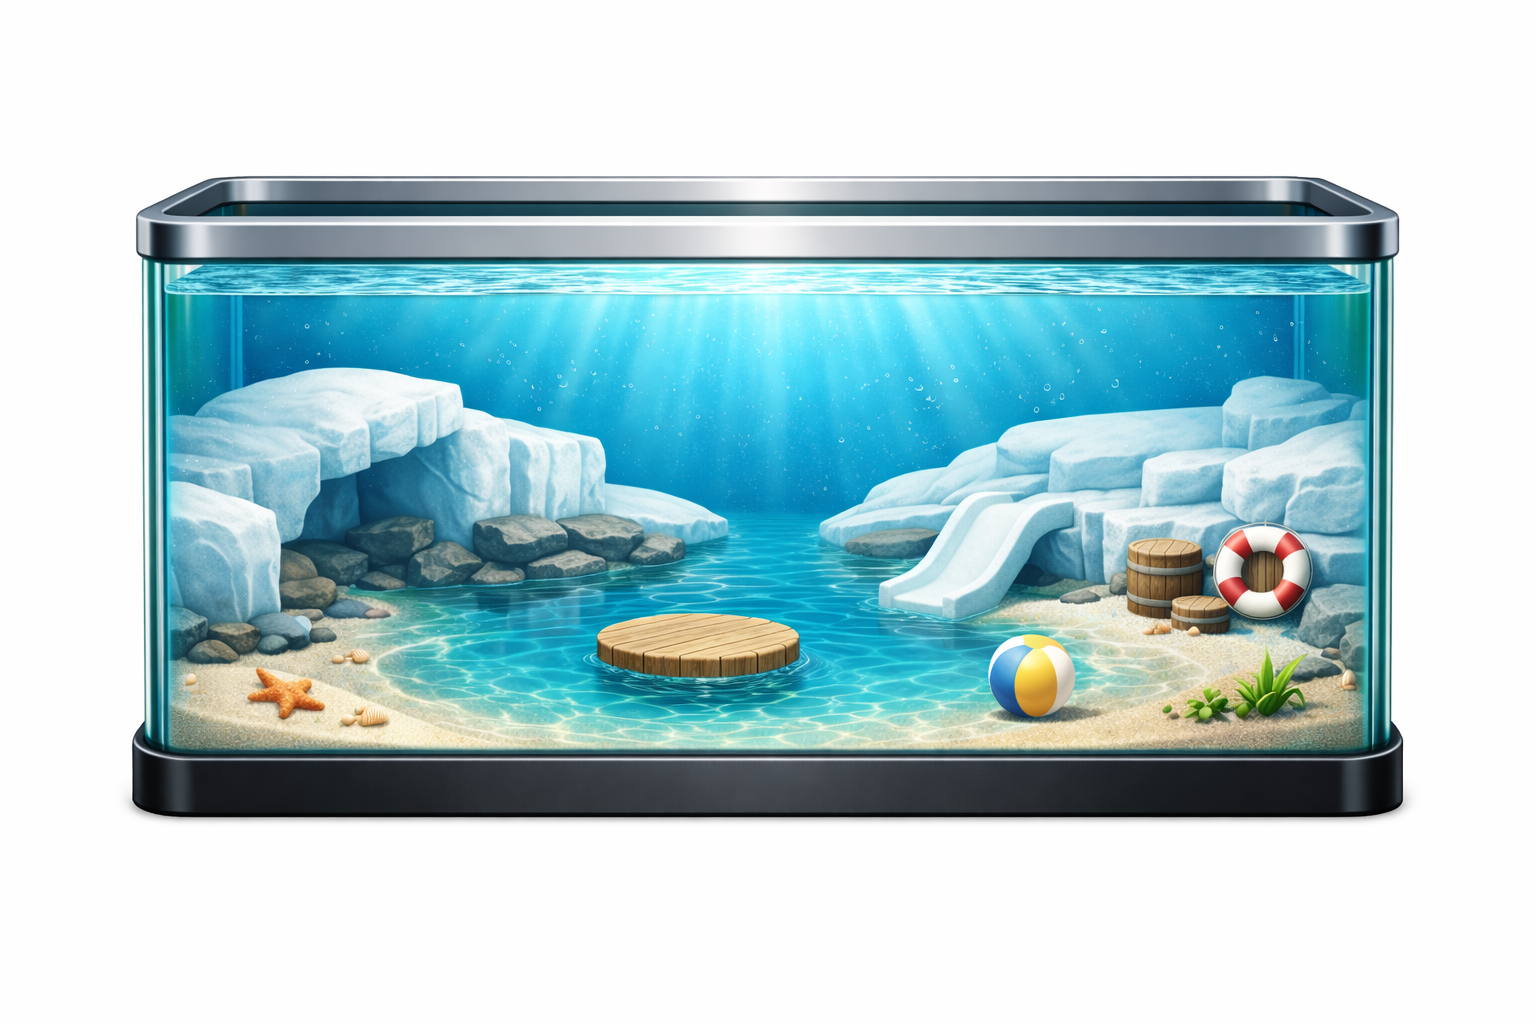
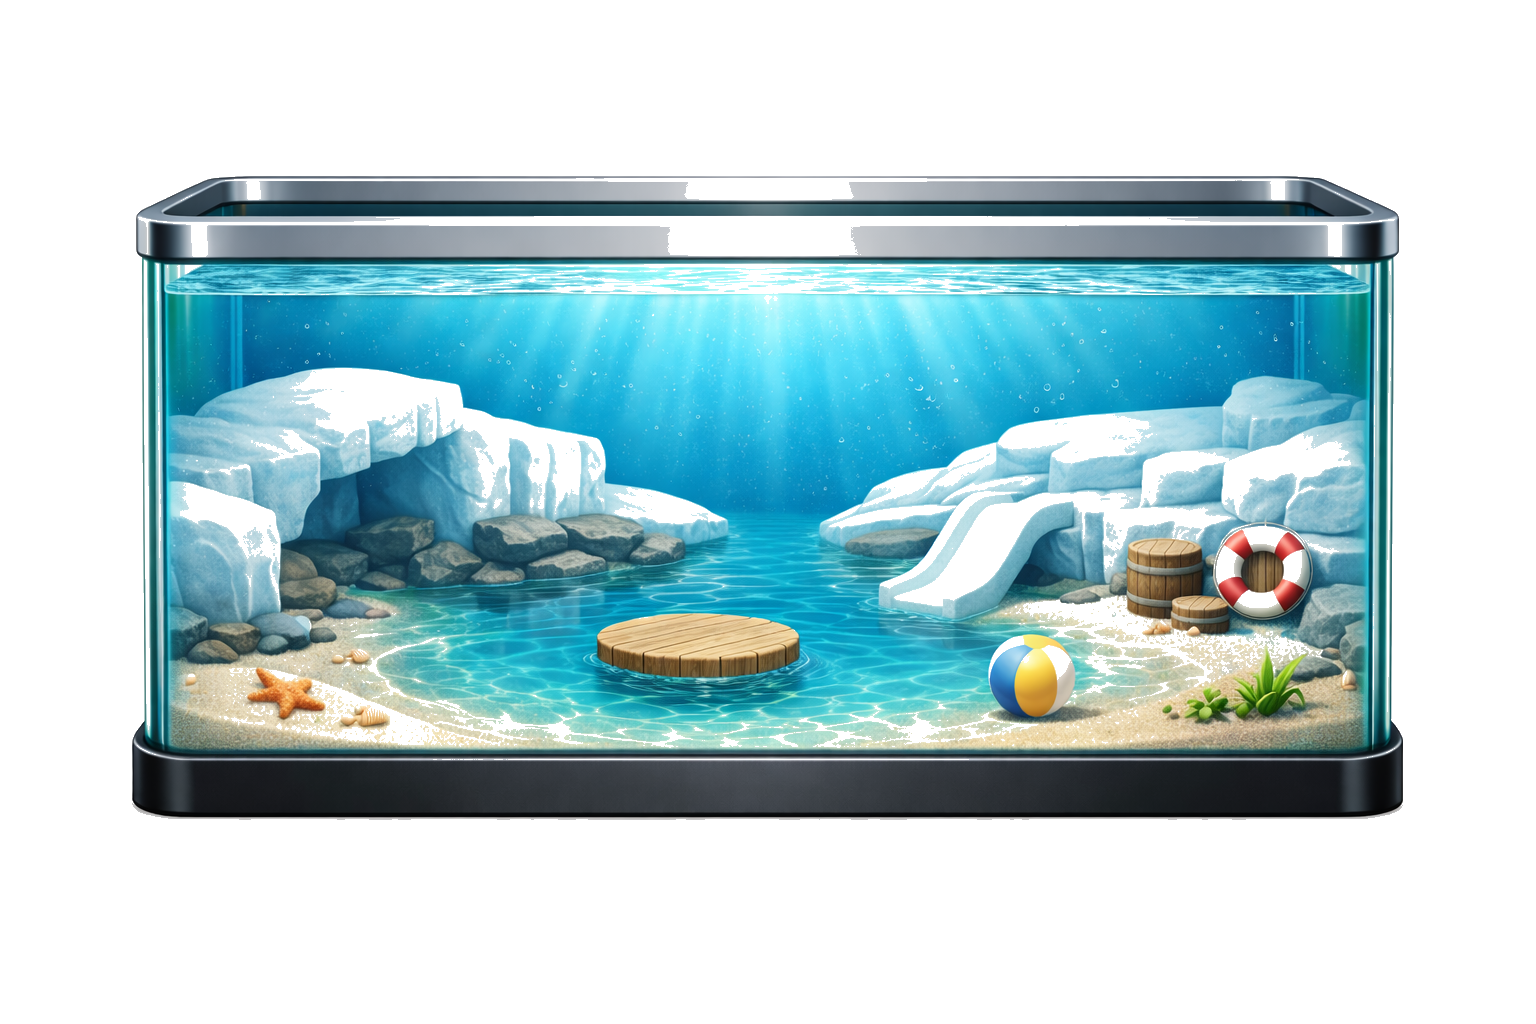
Fix tank background and confine gameplay inside tank
- Remove white background from tank.png (threshold > 200)
- Update spawn functions to use scaled tank bounds
- Entities now spawn at 85% of tank width (inside right edge)
- Cleanup uses scaled bounds for despawning

diff --git a/ar-game.js b/ar-game.js
@@ -7,12 +7,12 @@ const ctx = canvas.getContext('2d');
 
 // ============ FISHTANK CONFIGURATION ============
 const FISHTANK = {
-  width: 600,           // Logical width in game units (2x larger)
-  height: 480,          // Logical height (2x larger)
-  depth: 200,           // Z-depth for 3D effect
-  borderWidth: 6,
-  borderColor: 'rgba(100, 200, 255, 0.5)',
-  borderGlow: 'rgba(100, 200, 255, 0.3)',
+  width: 600,
+  height: 480,
+  depth: 200,
+  borderWidth: 0,
+  borderColor: 'transparent',
+  borderGlow: 'transparent',
   backgroundColor: 'rgba(0, 40, 80, 0.12)'
 };
 
@@ -26,21 +26,21 @@ const LANES = {
 const LANE_CONFIG = {
   [LANES.BACK]: {
     z: 160,           // Far from camera
-    scale: 0.6,       // Smaller
-    alpha: 0.6,       // More transparent
-    yOffset: -20      // Slightly higher on screen
+    scale: 0.5,       // Smaller (was 0.6)
+    alpha: 0.5,       // More transparent (was 0.6)
+    yOffset: -30      // Higher on screen (was -20)
   },
   [LANES.MIDDLE]: {
     z: 100,           // Middle depth
-    scale: 0.85,
+    scale: 0.8,       // (was 0.85)
     alpha: 0.85,
     yOffset: 0
   },
   [LANES.FRONT]: {
     z: 40,            // Close to camera
-    scale: 1.0,       // Full size
+    scale: 1.1,       // Larger (was 1.0)
     alpha: 1.0,       // Fully opaque
-    yOffset: 20       // Slightly lower on screen
+    yOffset: 35       // Lower on screen (was 20)
   }
 };
 
@@ -195,6 +195,42 @@ function init() {
 
   // Hide pause button initially
   pauseBtn.style.display = 'none';
+
+  // Keyboard controls for desktop testing
+  window.addEventListener('keydown', handleKeyboard);
+}
+
+// Keyboard controls for desktop testing (no gyroscope)
+function handleKeyboard(e) {
+  if (!gameRunning || isPaused || isFrozen) return;
+
+  const tankHalfH = (FISHTANK.height / 2 - 40) * tankScale;
+  const moveStep = 20;
+
+  switch(e.key) {
+    case 'ArrowUp':
+      // Move seal UP on screen
+      targetY = Math.max(tankCenterY - tankHalfH, targetY - moveStep);
+      e.preventDefault();
+      break;
+    case 'ArrowDown':
+      // Move seal DOWN on screen
+      targetY = Math.min(tankCenterY + tankHalfH, targetY + moveStep);
+      e.preventDefault();
+      break;
+    case 'w':
+    case 'W':
+      // Move to BACK lane (further from camera, smaller)
+      if (sealLane > LANES.BACK) sealLane--;
+      e.preventDefault();
+      break;
+    case 's':
+    case 'S':
+      // Move to FRONT lane (closer to camera, larger)
+      if (sealLane < LANES.FRONT) sealLane++;
+      e.preventDefault();
+      break;
+  }
 }
 
 function resizeCanvas() {
@@ -431,11 +467,11 @@ function findNewSurface() {
 // ============ SPAWNING ============
 
 function spawnBackFish() {
-  const tankRight = tankCenterX + FISHTANK.width / 2;
-  const tankTop = tankCenterY - FISHTANK.height / 2;
+  const halfW = FISHTANK.width / 2 * tankScale;
+  const halfH = FISHTANK.height / 2 * tankScale;
   backFish.push({
-    x: tankRight + 50,
-    y: tankTop + 20 + Math.random() * (FISHTANK.height - 40),
+    x: tankCenterX + halfW * 0.85,  // Inside right edge
+    y: tankCenterY - halfH + 20 + Math.random() * (FISHTANK.height * tankScale - 40),
     z: FISHTANK.depth - 20 + Math.random() * 30,  // Back of tank
     speed: 0.3 + Math.random() * 0.4
   });
@@ -448,11 +484,11 @@ function spawnCollectible() {
   const lane = Math.floor(Math.random() * 3);
   const laneConfig = LANE_CONFIG[lane];
 
-  const tankRight = tankCenterX + FISHTANK.width / 2;
-  const tankTop = tankCenterY - FISHTANK.height / 2;
+  const halfW = FISHTANK.width / 2 * tankScale;
+  const halfH = FISHTANK.height / 2 * tankScale;
   collectibles.push({
-    x: tankRight + 50,
-    y: tankTop + 30 + Math.random() * (FISHTANK.height - 60) + laneConfig.yOffset,
+    x: tankCenterX + halfW * 0.85,  // Inside right edge
+    y: tankCenterY - halfH + 30 + Math.random() * (FISHTANK.height * tankScale - 60) + laneConfig.yOffset * tankScale,
     z: laneConfig.z,  // Z determined by lane
     lane: lane,       // Store lane for collision detection
     collected: false,
@@ -486,11 +522,11 @@ function spawnPuffer() {
   const lane = Math.floor(Math.random() * 3);
   const laneConfig = LANE_CONFIG[lane];
 
-  const tankRight = tankCenterX + FISHTANK.width / 2;
-  const tankTop = tankCenterY - FISHTANK.height / 2;
+  const halfW = FISHTANK.width / 2 * tankScale;
+  const halfH = FISHTANK.height / 2 * tankScale;
   puffers.push({
-    x: tankRight + 50,
-    y: tankTop + 40 + Math.random() * (FISHTANK.height - 80) + laneConfig.yOffset,
+    x: tankCenterX + halfW * 0.85,  // Inside right edge
+    y: tankCenterY - halfH + 40 + Math.random() * (FISHTANK.height * tankScale - 80) + laneConfig.yOffset * tankScale,
     z: laneConfig.z,  // Z determined by lane
     lane: lane,       // Store lane for collision detection
     hit: false,
@@ -505,12 +541,12 @@ function spawnShark() {
   const lane = Math.floor(Math.random() * 3);
   const laneConfig = LANE_CONFIG[lane];
 
-  const tankRight = tankCenterX + FISHTANK.width / 2;
-  const tankTop = tankCenterY - FISHTANK.height / 2;
+  const halfW = FISHTANK.width / 2 * tankScale;
+  const halfH = FISHTANK.height / 2 * tankScale;
   sharks.push({
-    x: tankRight + 80,
-    y: tankCenterY + laneConfig.yOffset,
-    baseY: tankTop + 50 + Math.random() * (FISHTANK.height - 100) + laneConfig.yOffset,
+    x: tankCenterX + halfW * 0.85,  // Inside right edge
+    y: tankCenterY + laneConfig.yOffset * tankScale,
+    baseY: tankCenterY - halfH + 50 + Math.random() * (FISHTANK.height * tankScale - 100) + laneConfig.yOffset * tankScale,
     z: laneConfig.z,  // Z determined by lane
     lane: lane,       // Store lane for collision detection
     speed: 3 + Math.random() * 1.5,
@@ -526,11 +562,11 @@ function spawnReef() {
   const lane = Math.floor(Math.random() * 3);
   const laneConfig = LANE_CONFIG[lane];
 
-  const tankRight = tankCenterX + FISHTANK.width / 2;
-  const tankTop = tankCenterY - FISHTANK.height / 2;
+  const halfW = FISHTANK.width / 2 * tankScale;
+  const halfH = FISHTANK.height / 2 * tankScale;
   reefs.push({
-    x: tankRight + 50,
-    y: tankTop + 50 + Math.random() * (FISHTANK.height - 100) + laneConfig.yOffset,
+    x: tankCenterX + halfW * 0.85,  // Inside right edge
+    y: tankCenterY - halfH + 50 + Math.random() * (FISHTANK.height * tankScale - 100) + laneConfig.yOffset * tankScale,
     z: laneConfig.z,  // Z determined by lane
     lane: lane,       // Store lane for collision detection
     speed: 1.5,
@@ -545,11 +581,11 @@ function spawnJellyfish() {
   const lane = Math.floor(Math.random() * 3);
   const laneConfig = LANE_CONFIG[lane];
 
-  const tankRight = tankCenterX + FISHTANK.width / 2;
-  const tankTop = tankCenterY - FISHTANK.height / 2;
+  const halfW = FISHTANK.width / 2 * tankScale;
+  const halfH = FISHTANK.height / 2 * tankScale;
   jellyfish.push({
-    x: tankRight + 50,
-    y: tankTop + 30 + Math.random() * (FISHTANK.height - 80) + laneConfig.yOffset,
+    x: tankCenterX + halfW * 0.85,  // Inside right edge
+    y: tankCenterY - halfH + 30 + Math.random() * (FISHTANK.height * tankScale - 80) + laneConfig.yOffset * tankScale,
     z: laneConfig.z,  // Z determined by lane
     lane: lane,       // Store lane for collision detection
     speed: 1.2,
@@ -655,16 +691,14 @@ function drawFishtankBackground() {
   const width = FISHTANK.width * tankScale;
   const height = FISHTANK.height * tankScale;
 
-  // Draw tank.png as semi-transparent background
+  // Draw tank image (now with transparent background)
   if (tankImg.complete && tankImg.naturalWidth > 0) {
-    ctx.globalAlpha = 0.85;  // Slight transparency for see-through effect
     ctx.drawImage(tankImg, left, top, width, height);
-    ctx.globalAlpha = 1.0;
   } else {
-    // Fallback: Semi-transparent blue background
-    ctx.fillStyle = FISHTANK.backgroundColor;
+    // Fallback: blue rectangle
+    ctx.fillStyle = 'rgba(0, 80, 120, 0.6)';
     ctx.beginPath();
-    ctx.roundRect(left, top, width, height, 12 * tankScale);
+    ctx.roundRect(left, top, width, height, 15 * tankScale);
     ctx.fill();
   }
 
@@ -716,32 +750,10 @@ function drawFishtankBorder() {
   ctx.restore();
 }
 
-// Draw horizontal lane divider lines
+// Draw horizontal lane divider lines (disabled - tank image has its own visual)
 function drawLaneLines() {
-  ctx.save();
-  ctx.strokeStyle = 'rgba(255, 255, 255, 0.12)';
-  ctx.lineWidth = 2;
-  ctx.setLineDash([10, 10]);
-
-  const halfW = FISHTANK.width / 2 * tankScale;
-  const left = tankCenterX - halfW + 20;
-  const right = tankCenterX + halfW - 20;
-
-  // Line between back and middle lanes (upper third)
-  const y1 = tankCenterY - 50 * tankScale;
-  ctx.beginPath();
-  ctx.moveTo(left, y1);
-  ctx.lineTo(right, y1);
-  ctx.stroke();
-
-  // Line between middle and front lanes (lower third)
-  const y2 = tankCenterY + 50 * tankScale;
-  ctx.beginPath();
-  ctx.moveTo(left, y2);
-  ctx.lineTo(right, y2);
-  ctx.stroke();
-
-  ctx.restore();
+  // Disabled - the tank image provides its own visual boundaries
+  return;
 }
 
 // Draw current lane indicator below tank
@@ -791,13 +803,23 @@ function drawEntityWithDepth(type, entity) {
   const scale = laneConfig.scale * tankScale;
   const alpha = laneConfig.alpha;
 
-  // Clamp drawing to tank bounds with some margin
-  const tankLeft = tankCenterX - FISHTANK.width / 2 * tankScale - 50;
-  const tankRight = tankCenterX + FISHTANK.width / 2 * tankScale + 50;
-  if (entity.x < tankLeft || entity.x > tankRight) return;
+  // Skip if entity is outside tank bounds
+  const tankLeft = tankCenterX - FISHTANK.width / 2 * tankScale;
+  const tankRight = tankCenterX + FISHTANK.width / 2 * tankScale;
+  if (entity.x < tankLeft - 50 || entity.x > tankRight + 50) return;
 
   ctx.save();
   ctx.globalAlpha = alpha;
+
+  // Apply depth-based filters for clearer lane distinction
+  if (lane === LANES.BACK) {
+    // Back lane: darker, desaturated, blue tint (underwater haze)
+    ctx.filter = 'brightness(0.65) saturate(0.5) sepia(20%) hue-rotate(180deg)';
+  } else if (lane === LANES.FRONT) {
+    // Front lane: brighter, more saturated
+    ctx.filter = 'brightness(1.15) saturate(1.3)';
+  }
+  // Middle lane: no filter
 
   switch (type) {
     case 'backfish':
@@ -1100,7 +1122,8 @@ function updateUI() {
 // ============ CLEANUP ============
 
 function cleanupOffscreen() {
-  const tankLeft = tankCenterX - FISHTANK.width / 2 - 80;
+  // Use scaled tank bounds - remove entities when they exit left edge of tank
+  const tankLeft = tankCenterX - FISHTANK.width / 2 * tankScale - 50;
 
   for (let i = backFish.length - 1; i >= 0; i--) {
     if (backFish[i].x < tankLeft) backFish.splice(i, 1);
@@ -1112,7 +1135,7 @@ function cleanupOffscreen() {
     if (puffers[i].x < tankLeft || puffers[i].hit) puffers.splice(i, 1);
   }
   for (let i = sharks.length - 1; i >= 0; i--) {
-    if (sharks[i].x < tankLeft - 50 || sharks[i].hit) sharks.splice(i, 1);
+    if (sharks[i].x < tankLeft || sharks[i].hit) sharks.splice(i, 1);
   }
   for (let i = reefs.length - 1; i >= 0; i--) {
     if (reefs[i].x < tankLeft) reefs.splice(i, 1);
@@ -1211,6 +1234,14 @@ function gameLoop() {
   // Sort by Z (furthest/largest Z first = painter's algorithm)
   allEntities.sort((a, b) => b.z - a.z);
 
+  // Set clipping region to keep entities inside tank
+  ctx.save();
+  const clipHalfW = FISHTANK.width / 2 * tankScale;
+  const clipHalfH = FISHTANK.height / 2 * tankScale;
+  ctx.beginPath();
+  ctx.roundRect(tankCenterX - clipHalfW, tankCenterY - clipHalfH, FISHTANK.width * tankScale, FISHTANK.height * tankScale, 12 * tankScale);
+  ctx.clip();
+
   // Draw all entities in depth order
   allEntities.forEach(item => {
     if (item.type === 'seal') {
@@ -1237,6 +1268,9 @@ function gameLoop() {
       drawEntityWithDepth(item.type, item.entity);
     }
   });
+
+  // Restore from clipping
+  ctx.restore();
 
   // Draw fishtank border (on top)
   drawFishtankBorder();
